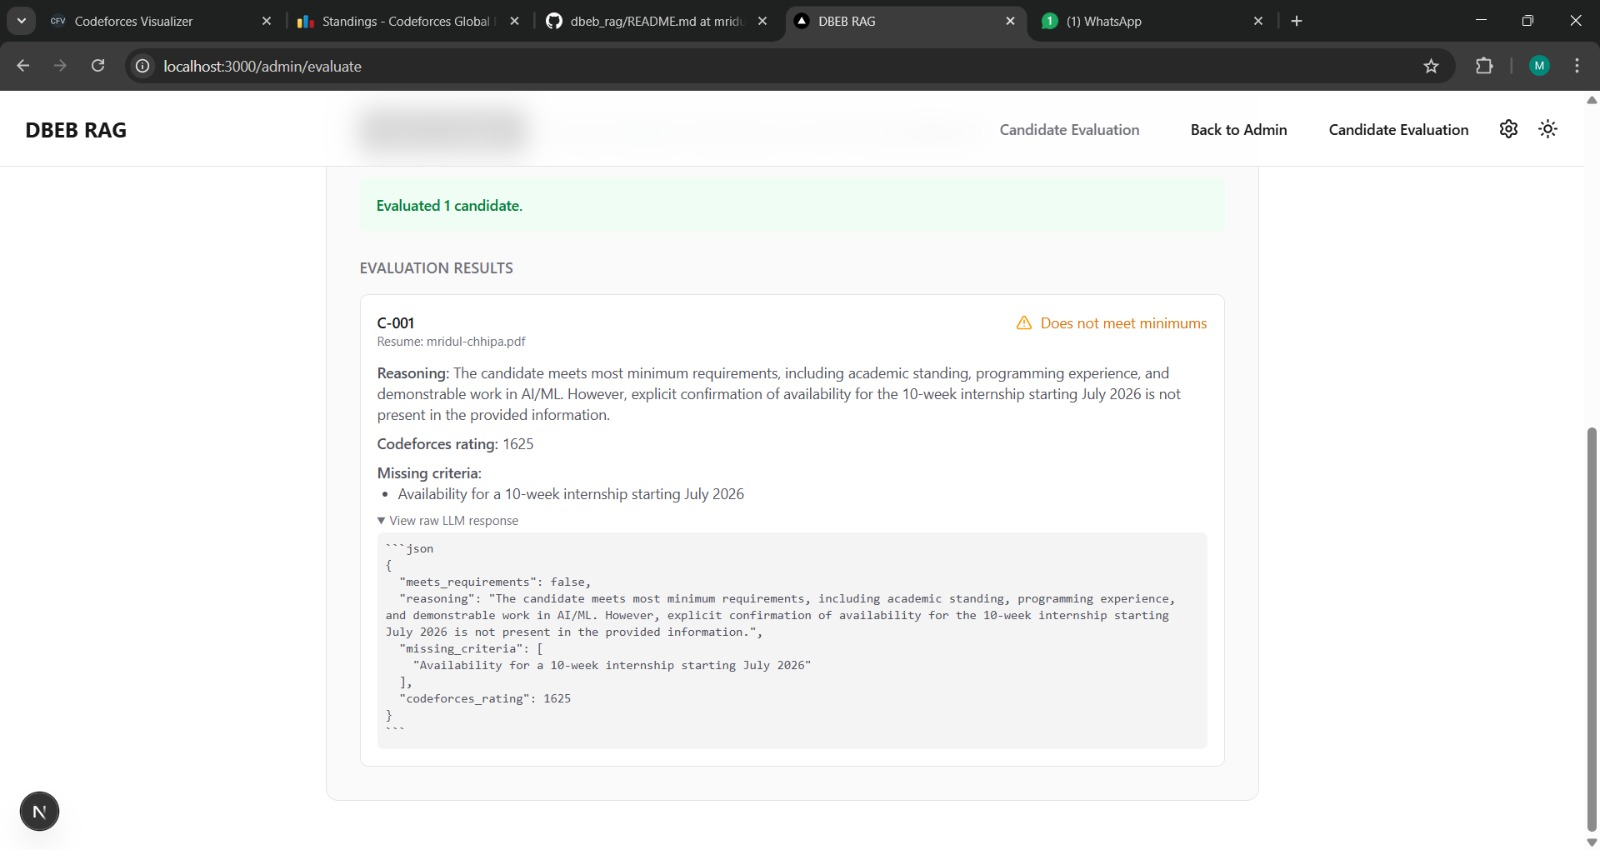
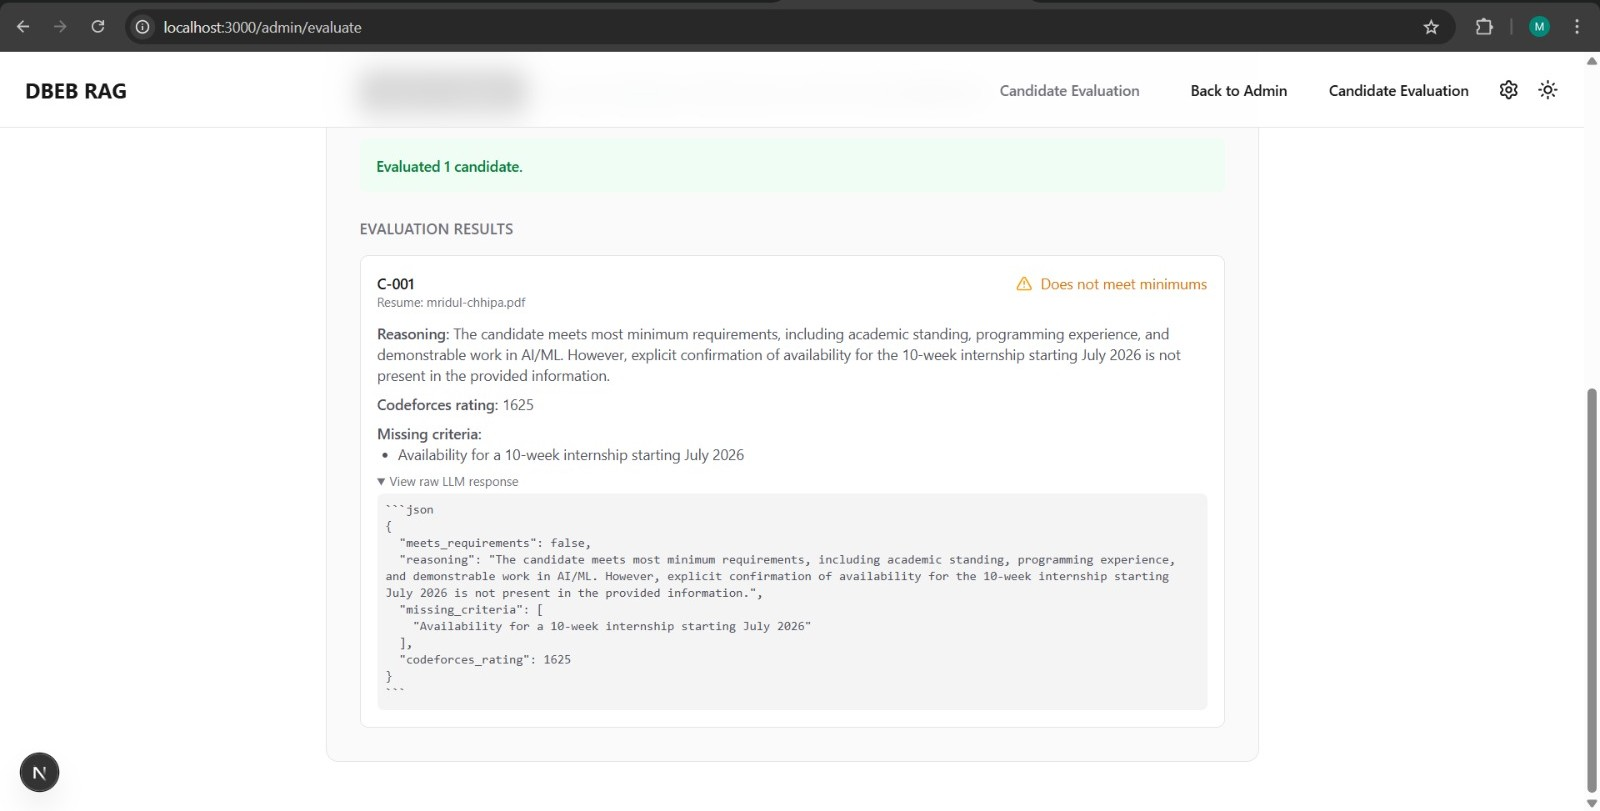
Fixed README typos and updated screenshots to reflect latest UI changes.

Changed region(s): [[0.2188, 0.1541, 0.75, 0.8323], [0.0, 0.0, 1.0, 0.185], [0.0, 0.9248, 0.0312, 0.9556]]

diff --git a/README.md b/README.md
@@ -31,10 +31,6 @@ Interactive Retrieval-Augmented Generation (RAG) system built with a FastAPI + L
 
 ## Screenshots
 
-Add PNG files to `docs/screenshots/` to power the gallery below.
-
-## Screenshots
-
 | Home | RAG Demo | Candidate Pass | Candidate Fail |
 | --- | --- | --- | --- |
 | ![](docs/screenshots/Home.jpeg) | ![](docs/screenshots/RAG-Demo.jpeg) | ![](docs/screenshots/CandidatePass.jpeg) | ![](docs/screenshots/CandidateFail.jpeg) |
@@ -42,8 +38,6 @@ Add PNG files to `docs/screenshots/` to power the gallery below.
 | Evaluating | Upload UI | Session Uploads | RAG Pipeline |
 | --- | --- | --- | --- |
 | ![](docs/screenshots/Evaluating.jpeg) | ![](docs/screenshots/Upload-UI.jpeg) | ![](docs/screenshots/Session-File-Uploads.jpeg) | ![](docs/screenshots/RAG-Update-Pipeline.png) |
-
-> Tip: export browser screenshots at 1440px width for crisp results in the table above.
 
 ## Requirements
 - Python 3.10+
